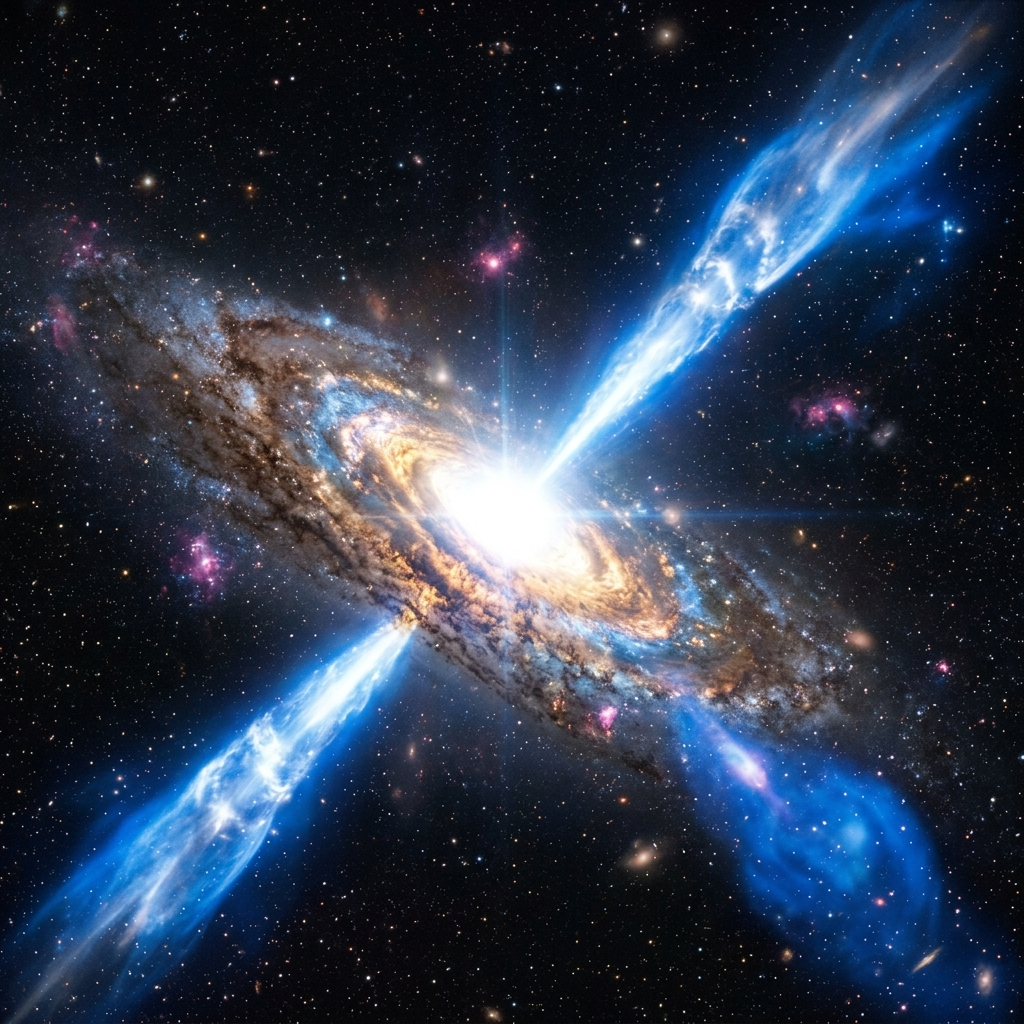
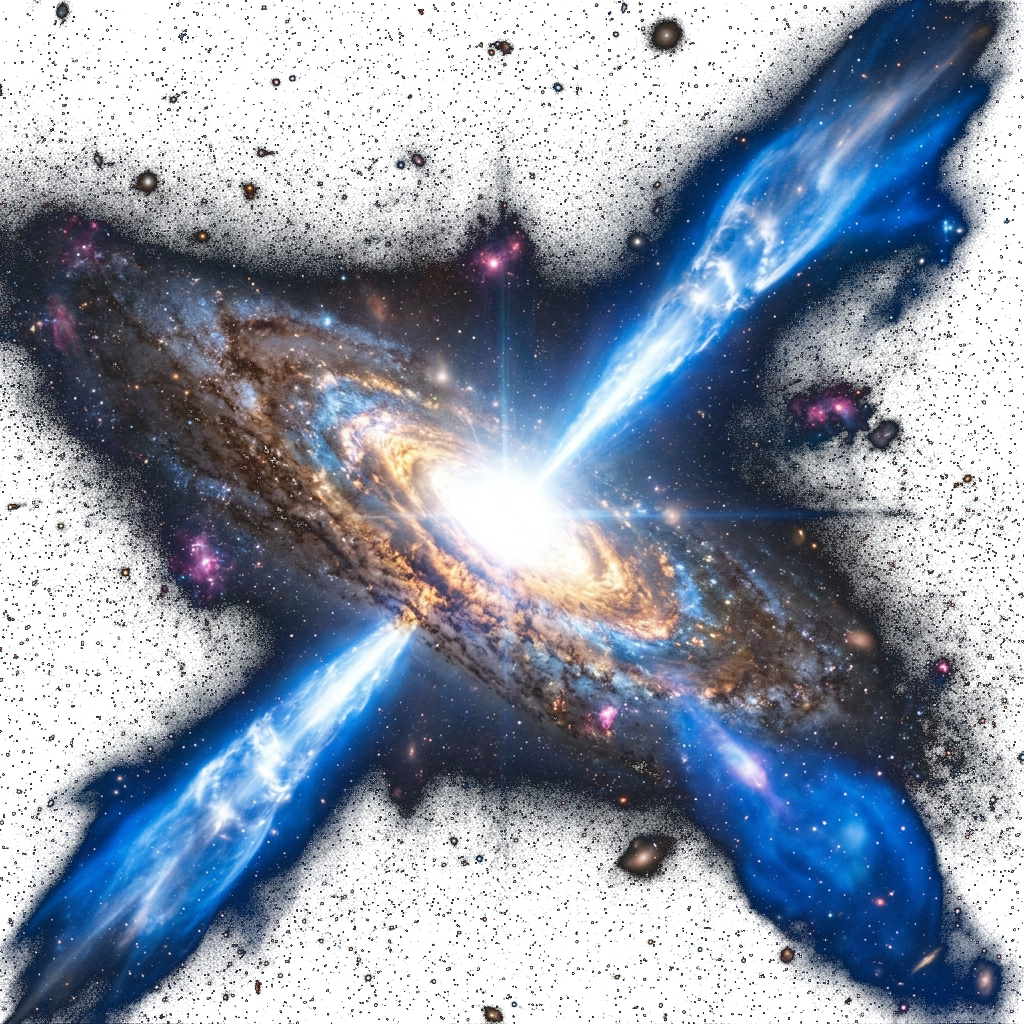
feat: phase 3.6 complete

diff --git a/lib/courseData.js b/lib/courseData.js
@@ -496,7 +496,7 @@ export const COURSE_DATA = [
         {
           title: "El Monstruo Invisible del Cosmos",
           text: "Imagina un gigantesco abismo en el tejido estelar con un poder de absorción gravitacional tan inconmensurablemente bestial que ni siquiera el mismísimo y rápido haz de luz, la entidad de mayor galope del universo, logra escapar de sus fauces opresivas. Al sobrepasar la misteriosa barrera orbital llamada 'Horizonte de Sucesos', la oscuridad traga por la eternidad a toda civilización, polvo o astro en una singularidad de energía y leyes físicas rotas.",
-          image: "https://images.unsplash.com/photo-1614730321146-b6fa6a46bcb4?q=80&w=800&auto=format&fit=crop",
+          image: "/assets/black_hole_singularity.png",
           imgCaption: "Una ilustración que retrata el centro colapsado implacable de un vórtice singular."
         },
         {
@@ -507,7 +507,7 @@ export const COURSE_DATA = [
         {
           title: "Fenómeno de Espaguetización",
           text: "Las fuerzas de arrastre provocadas y multiplicadas por densidades negras inagotables resultan tan radicales que producen efectos que estiran mortalmente a las leyes de la física, bautizado cómicamente por los científicos como 'Espaguetización'. Un cuerpo precipitándose experimentaría que su base es halada millones de magnitudes más fuerte que la parte superior provocando elástico despedazamiento hasta transformarse en polvo.",
-          image: "https://images.unsplash.com/photo-1462331940025-496dfbfc7564?q=80&w=800&auto=format&fit=crop",
+          image: "/assets/black_hole_spaghettification.png",
           imgCaption: "Representación conceptual de materia siendo arrastrada hacia el abismo insaciable.",
           style: "normal"
         },
@@ -519,7 +519,7 @@ export const COURSE_DATA = [
         {
           title: "El Descubrimiento Humano",
           text: "A pesar de existir eternos invisibles oscuros engañosamente escondidos sin emitir un destello lumínico perceptible para los instrumentos ópticos del ojo humano, los radiotelescopios majestuosamente gigantes lograron finalmente 'fotografiar' en los últimos años un colosal agujero negro. Captaron exitosamente el anillo ardiente y turbulento de fuego plasmático circundante, dibujando revelando visual la silueta opaca al centro.",
-          image: "https://images.unsplash.com/photo-1451187580459-43490279c0fa?q=80&w=800&auto=format&fit=crop",
+          image: "/assets/black_hole_event_horizon.png",
           imgCaption: "La galaxia conteniendo agujeros supermasivos devorando su área perimetral.",
           style: "normal"
         },

diff --git a/app/admin/users/page.js b/app/admin/users/page.js
@@ -89,9 +89,13 @@ export default function AdminUsersPage() {
                        <span style={{ background: 'rgba(255,0,0,0.2)', color: 'var(--danger)', padding: '0.3rem 0.8rem', borderRadius: '15px', fontSize: '0.8rem', display: 'inline-flex', alignItems: 'center', gap: '0.3rem' }}>
                           <Shield size={14} /> Admin
                        </span>
-                    ) : (
+                    ) : u.isApproved ? (
                        <span style={{ background: 'rgba(0,255,136,0.1)', color: 'var(--success)', padding: '0.3rem 0.8rem', borderRadius: '15px', fontSize: '0.8rem' }}>
                           Cadete
+                       </span>
+                    ) : (
+                       <span style={{ background: 'rgba(255,165,0,0.2)', color: 'orange', padding: '0.3rem 0.8rem', borderRadius: '15px', fontSize: '0.8rem', fontWeight: 'bold' }}>
+                          En Revisión
                        </span>
                     )}
                   </td>
@@ -99,6 +103,19 @@ export default function AdminUsersPage() {
                   
                   <td style={{ padding: '1rem', textAlign: 'right' }}>
                     <div style={{ display: 'flex', justifyContent: 'flex-end', gap: '0.5rem' }}>
+                      
+                      {u.role !== 'admin' && !u.isApproved && (
+                        <button 
+                           onClick={async () => {
+                             await updateDoc(doc(db, "users", u.uid), { isApproved: true });
+                             fetchUsers();
+                           }}
+                           title="Aprobar Ingreso de Cadete"
+                           style={{ background: 'rgba(0,255,136,0.2)', border: '1px solid var(--success)', color: 'var(--success)', padding: '0.5rem', borderRadius: '8px', cursor: 'pointer' }}
+                        >
+                           ✅ Aprobar
+                        </button>
+                      )}
                       
                       <button 
                          onClick={() => handleRoleChange(u.uid, u.role === 'admin' ? 'user' : 'admin')}

diff --git a/app/auth/page.js b/app/auth/page.js
@@ -33,6 +33,7 @@ function AuthContent() {
           name,
           email,
           role: 'student',
+          isApproved: false, // Bloqueo Administrativo
           progress: {
             stars: 0,
             completedModules: [],
@@ -63,11 +64,11 @@ function AuthContent() {
       >
         <div style={{ display: 'flex', flexDirection: 'column', alignItems: 'center', gap: '1rem', textAlign: 'center' }}>
           
-          {/* Fila de Logos Institucionales */}
-          <div style={{ display: 'flex', justifyContent: 'center', alignItems: 'center', gap: '1.5rem', padding: '0.8rem 1.5rem', background: 'rgba(255, 255, 255, 0.95)', borderRadius: '20px', boxShadow: '0 5px 20px rgba(0,0,0,0.3)' }}>
-             <img src="/assets/main_logo.png" alt="Space Camp Academy" style={{ height: '45px', objectFit: 'contain' }} />
-             <div style={{ width: '2px', height: '30px', background: '#e0e0e0' }} />
-             <img src="/assets/logo_nasa_auth.png" alt="NASA" style={{ height: '35px', objectFit: 'contain' }} />
+          {/* Fila de Logos Institucionales Orgánicos (Fase 3.6 Transparencias) */}
+          <div style={{ display: 'flex', justifyContent: 'center', alignItems: 'center', gap: '2rem', padding: '1rem', width: '100%' }}>
+             <img src="/assets/main_logo.png" alt="Space Camp Academy" style={{ height: '70px', objectFit: 'contain', filter: 'drop-shadow(0px 0px 10px rgba(255,255,255,0.3))' }} />
+             <div style={{ width: '2px', height: '40px', background: 'rgba(255,255,255,0.2)' }} />
+             <img src="/assets/logo_nasa_auth.png" alt="NASA" style={{ height: '55px', objectFit: 'contain', filter: 'drop-shadow(0px 0px 10px rgba(255,255,255,0.3))' }} />
           </div>
           <h2 style={{ fontSize: '2rem', margin: 0 }}>
             {mode === 'register' ? 'Registro Espacial' : 'Acceso de Cadete'}

diff --git a/process-images.js b/process-images.js
@@ -1,0 +1,53 @@
+const Jimp = require("jimp");
+const fs = require("fs");
+const path = require("path");
+
+const publicAssets = path.join(__dirname, "public", "assets");
+const filesToProcess = [
+  "black_hole_icon.png",
+  "quasar_icon.png",
+  "pulsar_icon.png",
+  "red_dwarf_icon.png",
+  "white_dwarf_icon.png",
+  "wormhole_icon.png"
+];
+
+async function processImages() {
+  for (const file of filesToProcess) {
+    const filePath = path.join(publicAssets, file);
+    if (!fs.existsSync(filePath)) {
+      console.log(`Skipping ${file}, not found.`);
+      continue;
+    }
+    
+    console.log(`Processing ${file}...`);
+    try {
+      const image = await Jimp.read(filePath);
+      
+      image.scan(0, 0, image.bitmap.width, image.bitmap.height, function(x, y, idx) {
+        const r = this.bitmap.data[idx + 0];
+        const g = this.bitmap.data[idx + 1];
+        const b = this.bitmap.data[idx + 2];
+        
+        // Anti-aliased pure black detection
+        const luminosity = 0.2126 * r + 0.7152 * g + 0.0722 * b;
+        
+        if (luminosity < 12) {
+          // Pure black -> 100% transparent
+          this.bitmap.data[idx + 3] = 0;
+        } else if (luminosity < 30) {
+          // Near black -> semi transparent
+          const fade = Math.floor(((luminosity - 12) / 18) * 255);
+          this.bitmap.data[idx + 3] = fade;
+        }
+      });
+
+      await image.writeAsync(filePath);
+      console.log(`✓ Completely removed background for ${file}`);
+    } catch (err) {
+      console.error(`Error processing ${file}:`, err);
+    }
+  }
+}
+
+processImages();

diff --git a/app/dashboard/page.js b/app/dashboard/page.js
@@ -21,6 +21,24 @@ export default function CourseHub() {
     return <div style={{ minHeight: '100vh', display: 'flex', alignItems: 'center', justifyContent: 'center' }}>Validando acceso al Hub...</div>;
   }
 
+  // Muro Administrativo de Autorización (Fase 3.6)
+  if (userData.role !== 'admin' && !userData.isApproved) {
+    return (
+      <div style={{ minHeight: '100vh', display: 'flex', flexDirection: 'column', alignItems: 'center', justifyContent: 'center', padding: '2rem', textAlign: 'center', background: 'radial-gradient(circle at center, #1a0b2e 0%, #000000 100%)' }}>
+        <div style={{ background: 'rgba(255,255,255,0.05)', padding: '3rem', borderRadius: '24px', border: '1px solid rgba(255,51,102,0.3)', maxWidth: '500px' }}>
+           <h1 style={{ color: 'var(--danger)', fontSize: '2.5rem', marginBottom: '1rem' }}>Sector Restringido</h1>
+           <p style={{ color: 'var(--text-muted)', fontSize: '1.2rem', marginBottom: '2rem' }}>
+             Tu identidad está siendo verificada por el <strong>Comandante en Jefe (Administrador)</strong>. <br/><br/>
+             Por protocolos intergalácticos de seguridad, espera a que tu solicitud sea aprobada antes de ingresar a la Estación Central.
+           </p>
+           <button onClick={() => { auth.signOut(); window.location.reload(); }} className="btn-secondary">
+             Cerrar Sesión
+           </button>
+        </div>
+      </div>
+    );
+  }
+
   const userStars = userData?.progress?.stars || 0;
 
   return (

diff --git a/app/course/[moduleId]/page.js b/app/course/[moduleId]/page.js
@@ -137,7 +137,7 @@ export default function CourseModule() {
           
           <div className="glass-card" style={{ display: 'flex', flexDirection: 'column', alignItems: 'center', textAlign: 'center', gap: '1.5rem', background: `linear-gradient(135deg, rgba(255,255,255,0.05), ${moduleData.color}20)`, backdropFilter: 'blur(20px)' }}>
             <div style={{ width: '180px', height: '180px', borderRadius: '50%', boxShadow: `0 0 40px ${moduleData.color}60`, overflow: 'hidden', border: `4px solid ${moduleData.color}`, background: 'black' }}>
-               <img src={`/assets/${planetImageName}`} alt={moduleData.titleEs} style={{ width: '100%', height: '100%', objectFit: 'cover', mixBlendMode: isAnomaly ? 'screen' : 'normal' }} onError={(e) => {e.target.style.display='none'}} />
+               <img src={`/assets/${planetImageName}`} alt={moduleData.titleEs} style={{ width: '100%', height: '100%', objectFit: 'cover', mixBlendMode: 'normal' }} onError={(e) => {e.target.style.display='none'}} />
             </div>
             
             <h2 style={{ fontSize: '1.8rem', margin: 0 }}>Misión {moduleData.titleEs}</h2>

diff --git a/app/quiz/[moduleId]/page.js b/app/quiz/[moduleId]/page.js
@@ -122,7 +122,7 @@ export default function QuizMinigame() {
                
                {/* Target Planet */}
                <div style={{ position: 'absolute', right: '0', zIndex: 3, width: '60px', height: '60px', borderRadius: '50%', overflow: 'hidden', border: `2px solid ${moduleData.color}`, boxShadow: `0 0 20px ${moduleData.color}50`, background: '#000' }}>
-                 <img src={`/assets/${planetImageName}`} style={{ width: '100%', height: '100%', objectFit: 'cover', mixBlendMode: isAnomaly ? 'screen' : 'normal' }} alt={moduleData.titleEs} onError={(e) => {e.target.style.display='none'}} />
+                 <img src={`/assets/${planetImageName}`} style={{ width: '100%', height: '100%', objectFit: 'cover', mixBlendMode: 'normal' }} alt={moduleData.titleEs} onError={(e) => {e.target.style.display='none'}} />
                </div>
 
                {/* Spaceship */}

diff --git a/app/hub/stellar-objects/page.js b/app/hub/stellar-objects/page.js
@@ -169,7 +169,7 @@ function IsolatedPlanetNode({ moduleInfo, idx, coords, isCompleted, isPlayable, 
               width: '100%', 
               height: '100%', 
               objectFit: 'contain',
-              mixBlendMode: 'screen', /* Elimina cualquier rastro negro de la generación IA !! */
+              mixBlendMode: 'normal', /* Se removió el screen porque ya se pre-procesaron como PNGs nativos Alfa */
               filter: planetFilter,
               opacity: planetOpacity,
               transition: 'all 0.5s ease',

diff --git a/patchAuth.js b/patchAuth.js
@@ -1,0 +1,4 @@
+const fs = require('fs');
+let f = fs.readFileSync('app/auth/page.js', 'utf8');
+f = f.replace(/role: 'student',/, "role: 'student',\n          isApproved: false, // Bloqueo Administrativo");
+fs.writeFileSync('app/auth/page.js', f);
